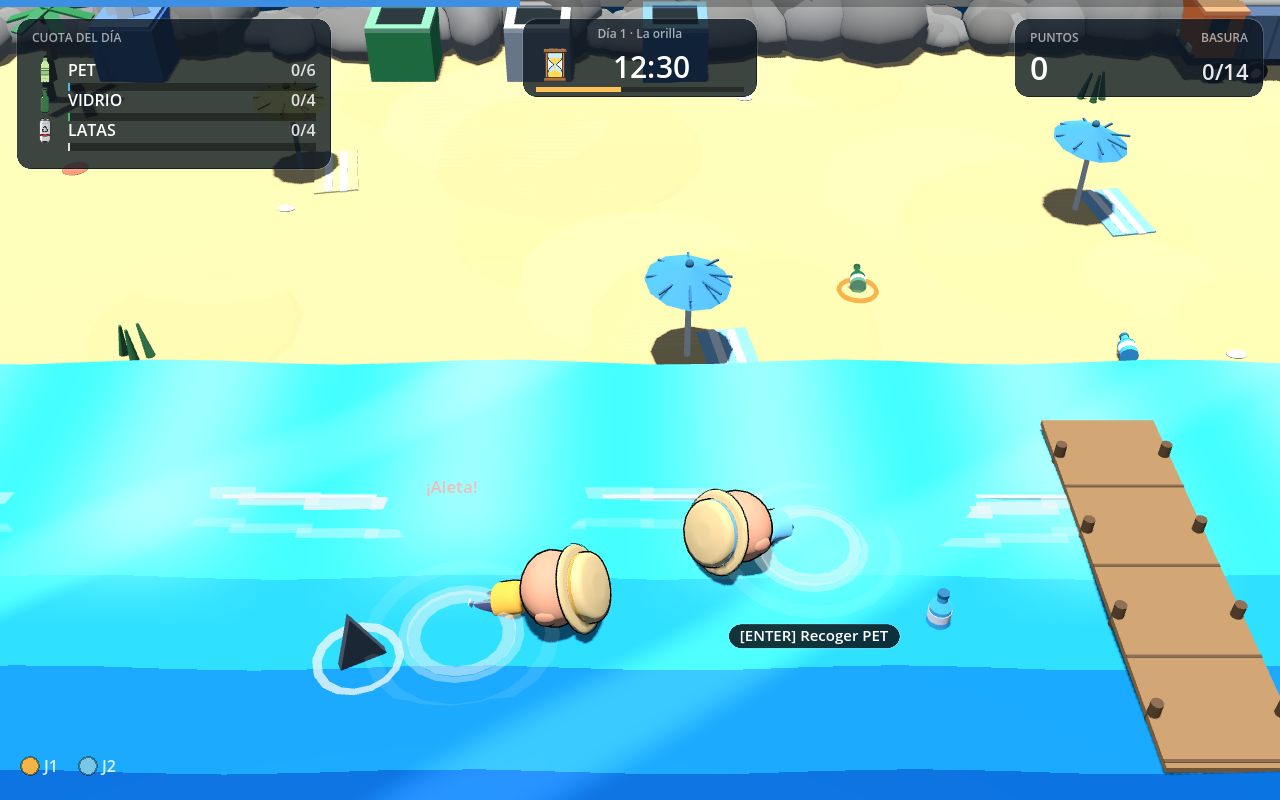
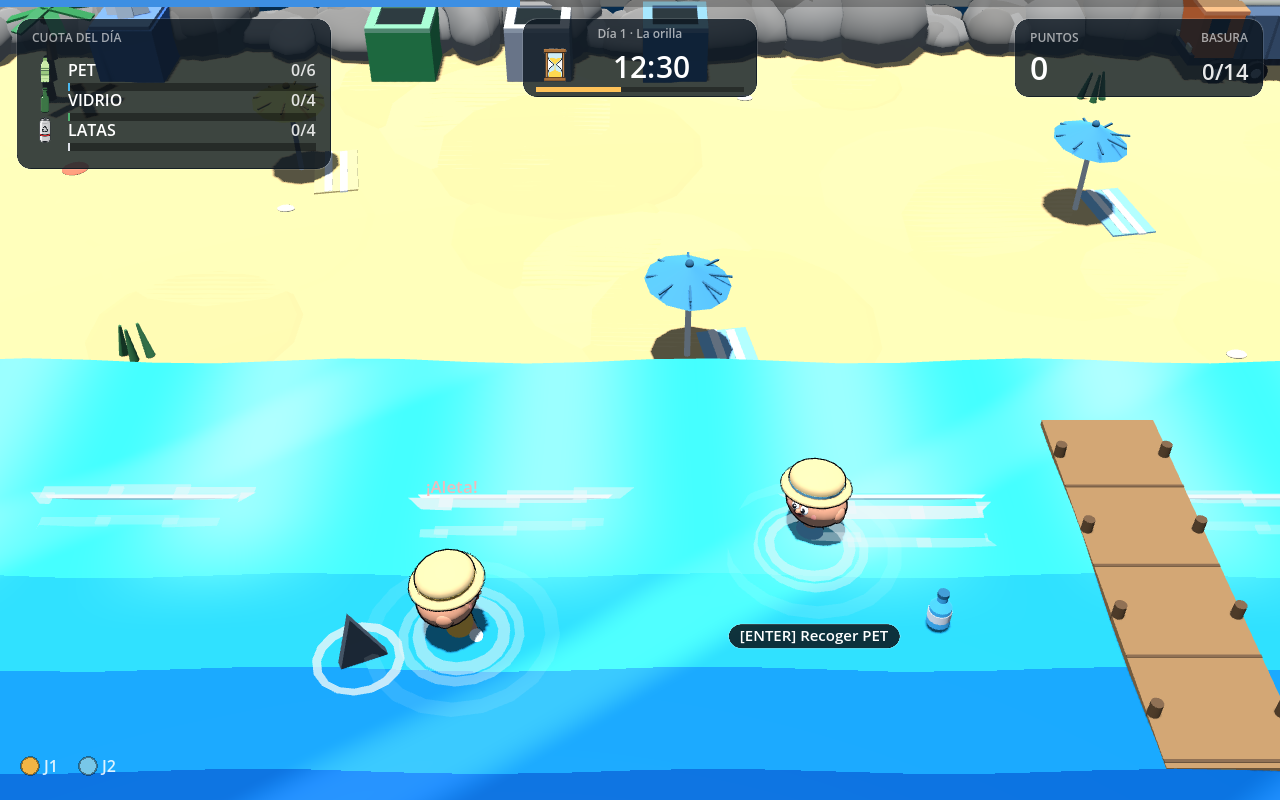
Tiburón con modelo y mordida animada, nado parado y cara con detalle
Tiburón:
- Modelo rápido con primitivas (cuerpo, panza, hocico, aleta dorsal, cola,
  pectorales, ojos, boca y dientes).
- La mordida se anima: sale del agua, se abalanza y se vuelve a hundir.
- Al morder deja una cuenta atrás en pantalla y se reaparece en el SPAWN del
  nivel (antes era el arenal más cercano).

Personaje:
- Escala 0.84: a tamaño completo tapaba media pantalla y el agua le llegaba
  al cuello.
- Cara con detalle: ojos con esclerótica, pupila y brillo, cejas gruesas,
  sonrisa con comisuras y cachetes (acompañan el cabeceo de la cabeza).
- Nado erguido: flota parado con el agua al pecho y rema con los brazos a
  los costados, en vez de ir acostado como nadador de competencia (así se
  hundía la cara en un agua de 30 cm).

101 comprobaciones headless siguen en verde.

diff --git a/docs/MECANICAS.md b/docs/MECANICAS.md
@@ -131,15 +131,19 @@ palmera ni debajo del muelle.
 
 ## El mar y el tiburón (Fase 3)
 
-- **Se entra al agua nadando**: el personaje se acuesta sobre la lámina con la
-  cabeza afuera, **flota como un corcho** (sube y baja), rola con la brazada y
-  deja **ondas que se abren** alrededor, estela y salpicaduras. Nadar es **más lento** que caminar
+- **Se entra al agua nadando**: el personaje flota **parado** (no acostado como
+  nadador de competencia), con el agua al pecho y la cabeza afuera; rema con los
+  brazos a los costados, **sube y baja como un corcho** y deja **ondas que se
+  abren** alrededor. Nadar es **más lento** que caminar
   (2,5 contra 4,6) y el impulso en el agua también es más corto (4,2 contra 9,2).
 - **A los 3 s** de estar en el agua aparece la **aleta** (un triángulo oscuro que
   rodea al jugador) y **a los 6 s muerde**. Cuanto más tiempo pasás en el agua,
   más se calienta: la aleta y la mordida llegan antes (hasta la mitad de tiempo).
-- La mordida **no quita puntos**: te deja **5 s fuera de juego** y reaparecés en
-  la arena. Lo que llevabas queda en la orilla (no se pierde).
+- La mordida la hace un **tiburón que sale del agua** (cuerpo, aleta dorsal,
+  cola y dientes): sube, se abalanza y se vuelve a hundir.
+- La mordida **no quita puntos**: te deja **5 s fuera de juego** con una
+  **cuenta atrás en pantalla** y reaparecés en el **spawn del nivel**. Lo que
+  llevabas queda en la orilla (no se pierde).
 - La **basura flotante** aparece en cualquier fila del agua (una de cada tres,
   mar adentro) y **suma doble a la cuota**: es el premio por el riesgo.
 - La basura del agua **se hunde a los 10 s** si no se rescata.
@@ -172,6 +176,8 @@ tiburón tampoco descuenta: cuesta 5 segundos de espera.
 Todo son primitivas de Godot; lo que hace que se reconozca cada cosa es la
 silueta:
 
+- **Personaje**: 0,84 de escala (antes tapaba media pantalla) y con la cara
+  detallada: ojos con esclerótica y brillo, cejas, sonrisa y cachetes.
 - **Botella PET**: cuerpo ancho, etiqueta blanca y tapa azul oscura.
 - **Botella de vidrio**: verde, cuello largo y etiqueta crema.
 - **Lata**: metal con banda roja y anilla en la tapa.

diff --git a/README.md b/README.md
@@ -170,7 +170,7 @@ xvfb-run -a godot --path . -- --shot=/tmp/pl.png --demo2
 Modos: `--demo`, `--demo2` (co-op), `--items` (los tres residuos de cerca),
 `--kick` (basura pateada), `--pressure` (aros y basura flotante),
 `--map` (el mapa entero), `--diagonal` (giro en diagonal), `--swim` (nado y
-aleta), `--gull` (aro de la gaviota),
+aleta), `--bite` (mordida del tiburón y cuenta atrás), `--gull` (aro de la gaviota),
 `--shore` (orilla), `--closeup` (contenedores con bolsa), `--menu`, `--results`,
 `--win`, `--facing`, `--carry`.
 
@@ -182,11 +182,16 @@ con estrellas y la presión de la Fase 2 (se hunde, se rompe, gaviota, aros y to
 de castigos). Funciona la cooperación de 2 jugadores en el mismo teclado.
 
 La **Fase 3** agrega el mar: se entra nadando (más lento), aparece la aleta y
-después el tiburón muerde: no quita puntos, te deja **5 s fuera de juego** y
-reaparecés en la arena. Cuanto más te quedás en el agua, antes vuelve. La basura
+después el tiburón muerde: no quita puntos, te deja **5 s fuera de juego** (con
+cuenta atrás en pantalla) y reaparecés en el spawn del nivel. Cuanto más te quedás en el agua, antes vuelve. La basura
 flotante suma doble a la cuota.
 
 ![nadando](docs/captura-nadar.png)
+
+Si te quedás en el agua aparece el tiburón: sale, muerde y te deja unos segundos
+fuera de juego con la cuenta atrás en pantalla.
+
+![mordida](docs/captura-mordida.png)
 
 Lo que sigue está en [`docs/PLAN-v2.md`](docs/PLAN-v2.md): Fase 4 (NPCs que tiran
 basura y nivel bosque).

diff --git a/docs/PLAN-v2.md b/docs/PLAN-v2.md
@@ -108,6 +108,10 @@ Decisiones de implementación:
 - **La mordida no destruye lo que llevabas**: lo deja en la orilla.
 - **Las penalizaciones son solo de puntos**: la mordida del tiburón no descuenta,
   cuesta 5 s de espera; el contenedor equivocado no castiga, solo rechaza.
+- **El tiburón es un modelo**: sale del agua, se abalanza y se hunde; la mordida
+  deja una cuenta atrás en pantalla y se reaparece en el spawn del nivel.
+- **El personaje nada parado** (flotando), no acostado: acostado se hundía la
+  cara en un agua de 30 cm.
 - **El tiburón se calienta**: cuanto más tiempo seguís en el agua, antes aparece
   la aleta y antes muerde (hasta la mitad del tiempo). Después de una mordida
   arranca más caliente todavía.
